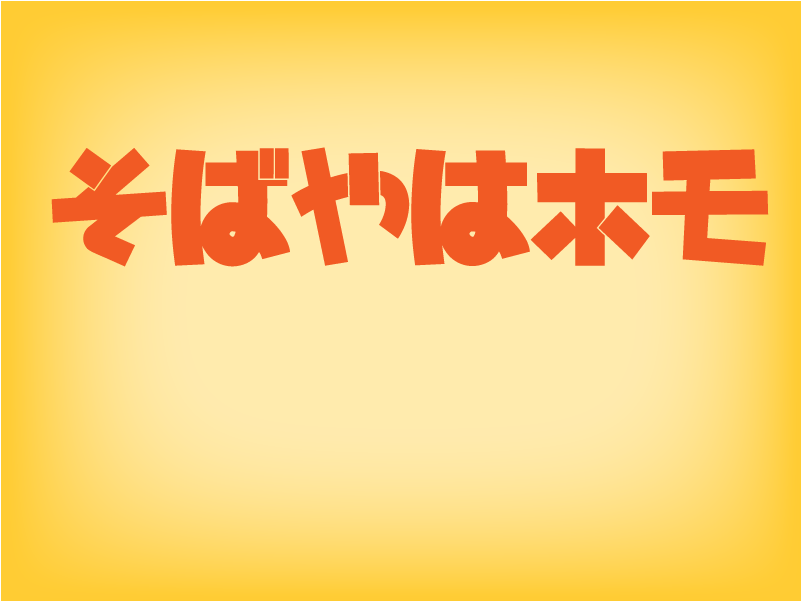
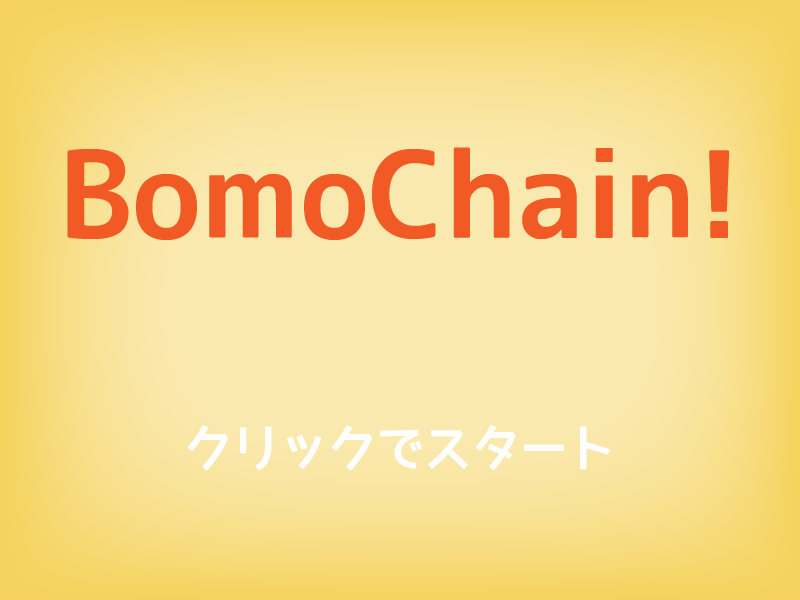
なんかいろいろ直した

diff --git a/src/Stage.java b/src/Stage.java
@@ -87,19 +87,19 @@ public class Stage {
 
 		buttons[0] = new Button(22,
 				window.getHeight() - elementAreaHeight + 295,
-				175, 46, 20, 20, true, "ほも", japaneseFont);
+				175, 46, 20, 20, true, "A", japaneseFont);
 
 		buttons[1] = new Button(22,
 				window.getHeight() - elementAreaHeight + 350,
-				175, 46, 20, 20, true, "ばら", japaneseFont);
+				175, 46, 20, 20, true, "B", japaneseFont);
 
 		buttons[2] = new Button(603,
 				window.getHeight() - elementAreaHeight + 295,
-				175, 46, 20, 20, false, "れず", japaneseFont);
+				175, 46, 20, 20, false, "C", japaneseFont);
 
 		buttons[3] = new Button(603,
 				window.getHeight() - elementAreaHeight + 350,
-				175, 46, 20, 20, false, "ゆり", japaneseFont);
+				175, 46, 20, 20, false, "D", japaneseFont);
 
 		buttons[4] = new Button(603,
 				window.getHeight() - elementAreaHeight + 410,

diff --git a/src/Main.java b/src/Main.java
@@ -22,7 +22,7 @@ public class Main implements MouseListener, MouseMotionListener, KeyListener {
 	private Scene currentScene;
 
 	public Main() {
-		window = new JFrame("ホモホモ");
+		window = new JFrame("BomoChain");
 		window.setSize(800, 600);
 		window.setResizable(false);
 		window.setDefaultCloseOperation(JFrame.EXIT_ON_CLOSE);
